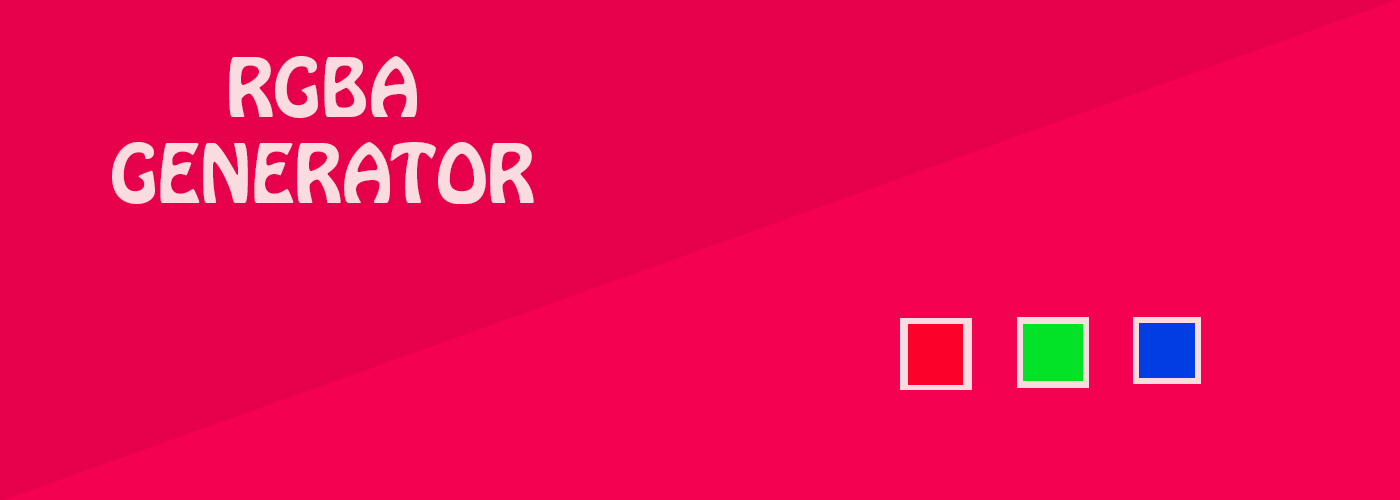
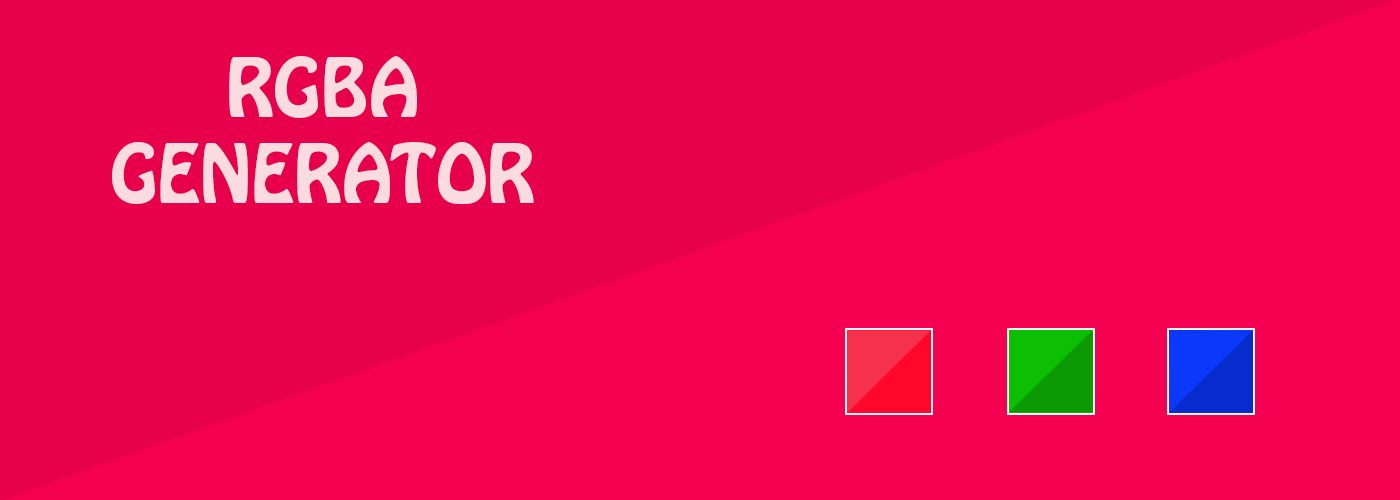
rgba

Changed region(s): [[0.5836, 0.63, 0.9214, 0.84]]

diff --git a/Subneteador/Subneteador.html b/Subneteador/Subneteador.html
@@ -7,8 +7,9 @@
 
 	<script type="text/javascript" src="js1/jquery-1.12.4.min.js"></script>
 	<script type="text/javascript" src="js1/logica.js"></script>
-	<link rel="stylesheet" type="text/css" href="css/subneteo.css">
+	
 	<link rel="stylesheet" href="../bootstrap-3.3.6-dist/css/bootstrap.min.css">
+	<link rel="stylesheet" type="text/css" href="css/subneteo.css">
 	<link href="https://fonts.googleapis.com/css?family=Raleway" rel="stylesheet">
 	<meta name="description" content="Aplicacion online para crear subredes">
 	<meta name="keywords" content="generador de codigo rgba, rgba generator, RGBA, CODIGO DE COLORES,Subneteo,subneteador online, subredes, sacar subredes online,Subneteo de redes ip, ip, suneteador de redes ip online,subredes ip,generar subredes ip,como subnetear,aprende a subnetear, creando subredes cisco, cisco, calculadora ip cisco,generar subredes online">
@@ -17,44 +18,62 @@
 			font-family: 'Raleway', sans-serif;
 		}
 	</style>
+	<link rel="stylesheet" type="text/css" href="css/cajas.css">
 </head>
 <body style="background-color: #eee;">
 
-	<header style="background: white;border-bottom: 3px solid #006699" class="navbar-fixed-top">
+	<header style="background: rgba(5,202,135,1);border-bottom: 3px solid rgba(5,202,135,1)" class="navbar-fixed-top">
 		<div class="container">
-		<h1 style="color: #006699;">Subneteo Online</h1>
+			<h1 style="color: white;">Subneteo Online</h1>
 		</div>
 
 	</header>
 
 	<div style="height: 60px;">:)</div>
 
-	<br>
+	<br><br>
 
 	<div class="container-fluid">
 		<div class="row">
-			<div  style="background-color:#d9edf7;border-radius:3px;justify-content: center;margin-top: 20px;padding: 10px;box-shadow: 1px 1px 2px rgba(150, 150, 150, 0.3);border-top: 3px solid rgba(17,147,182,1);" class="col-xs-12 col-md-8   col-md-offset-2 bg-info">
-				<h3 class="bg-info">¿Que es?</h3>
-				<p style="color: #006699;"><strong>Tu puedes generar subredes a partir de una red ya sea clase A, B o C</strong></p>
+			<div class="col-xs-12 col-md-8   col-md-offset-2 ">
+				
+				<div class="box">
+					<div class="box-header" style="background-color: rgba(5,202,135,1);color: white">¿Que es?</div>
+					<div class="box-body" style="border:1px solid rgba(5,202,135,1);">
+						<p style="color: #006699;"><strong>Tu puedes generar subredes a partir de una red ya sea clase A, B o C</strong></p>
+					</div>
+				</div>
 			</div>
 		</div>
 		<br>
 		<div class="row">
 			<div class="col-xs-12  col-md-8  col-md-offset-2 text-primary">
-				<div style="box-shadow: 1px 1px 2px rgba(150, 150, 150, 0.3);background: #d9edf7;border-radius: 3px;  float: left;padding: 10px 0px;border-top: 3px solid rgba(17,147,182,1);" class="col-xs-12 col-md-4 ">
-					<h4 style="color: initial;">Clase A</h4>
-					<p><strong>from:</strong>0.0.0.0 </p>
-					<p><strong>to:</strong> 127.255.255.255</p>
+				<div style="padding: 3px;padding-left: 0px;" class="col-xs-12 col-md-4 ">
+					<div class="box">
+						<div class="box-header" style="background-color: rgba(5,202,135,1);color: white">Clase A</div>
+						<div class="box-body" style="border:1px solid rgba(5,202,135,1);">
+							<p><strong>from:</strong>0.0.0.0 </p>
+							<p><strong>to:</strong> 127.255.255.255</p>
+						</div>
+					</div>
 				</div>
-				<div style="box-shadow: 1px 1px 2px rgba(150, 150, 150, 0.3);background: #d9edf7;border-radius: 3px; float: left;padding: 10px 0px;border-top: 3px solid rgba(17,147,182,1);" class="col-xs-12  col-md-4">
-					<h4 style="color: initial;">Clase B</h4>
-					<p><strong>from:</strong>128.255.255.255</p>
-					<p><strong>to:</strong>192.255.255.255</p>
+				<div style="padding: 3px;" class="col-xs-12  col-md-4">					
+					<div class="box">
+						<div class="box-header" style="background-color: rgba(5,202,135,1);color: white">Clase B</div>
+						<div class="box-body" style="border:1px solid rgba(5,202,135,1);">
+							<p><strong>from:</strong>128.255.255.255</p>
+							<p><strong>to:</strong>192.255.255.255</p></strong></p>
+						</div>
+					</div>
 				</div>
-				<div style="box-shadow: 1px 1px 2px rgba(150, 150, 150, 0.3);background: #d9edf7;border-radius: 3px; float: left;padding: 10px 0px;border-top: 3px solid rgba(17,147,182,1);" class="col-xs-12  col-md-4">
-					<h4 style="color: initial;">Clase C</h4>
-					<p><strong>from:</strong>193.255.255.255</p>
-					<p><strong>to:</strong>223.255.255.255</p>
+				<div style="padding: 3px;padding-right: 0px;" class="col-xs-12  col-md-4">					
+					<div class="box">
+						<div class="box-header" style="background-color: rgba(5,202,135,1);color: white">Clase C</div>
+						<div class="box-body" style="border:1px solid rgba(5,202,135,1);">
+							<p><strong>from:</strong>193.255.255.255</p>
+							<p><strong>to:</strong>223.255.255.255</p></strong></p>
+						</div>
+					</div>
 				</div>
 			</div>			
 		</div>

diff --git a/rgbaGenerator/rgba.html b/rgbaGenerator/rgba.html
@@ -10,14 +10,15 @@
 	<script src="js/jquery-1.12.4.min.js"></script>
 	<script src="js/logic.js" type="text/javascript"></script>
 
-	<link href="css/RGBA.css" rel="stylesheet" type="text/css"/>
+	
 	<link rel="stylesheet" href="BootStrap-3.3.6/bootstrap-3.3.6-dist/css/bootstrap.min.css">
+	<link href="css/RGBA.css" rel="stylesheet" type="text/css"/>
 
 </head>
-<body style="background: rgba(16,197,166,0.1);" id="body">
+<body style="background: rgba(245,28,81,0.1);" id="body">
 
 	<!-- header -->
-	<header id="cabecera" class="navbar-fixed-top" style="border-bottom: 3px solid #006699;">
+	<header id="cabecera" class="navbar-fixed-top" ">
 		<div class="container">
 			<h1 id="header">Generador rgba</h1>
 		</div>
@@ -33,7 +34,7 @@
 
 		<div class="row-block col-xs-12">
 			<div class="col-md-2"></div>
-			<div id="content1" style="border-top: 3px solid rgba(70,149,165,1);border-radius: 3px;box-shadow: 1px 1px 1px rgba(150,150,150,0.2);background: white;" class="content col-xs-12 col-md-8">
+			<div id="content1" style="border-top: 3px solid rgba(245,28,81,1);border-radius: 3px;box-shadow: 1px 1px 1px rgba(150,150,150,0.2);background: white;" class="content col-xs-12 col-md-8">
 				<p class="text-info">Quieres conocer el  <strong>codigo rgba</strong> de un color que te gustó y no sabes como, pues llegaste al lugar correcto.Podras crear tus propios colores y obtener su  <strong>codigo rgba</strong> para usarlo en tus paginas web u otros ambitos en los que sea posible. </p>
 			</div>
 			<div class="col-md-2"></div>
@@ -41,7 +42,7 @@
 
 		<div class="row-block col-xs-12">
 			<div class="col-md-2"></div>
-			<div  id="content2" style="border-top: 3px solid rgba(70,149,165,1);border-radius: 3px;box-shadow: 1px 1px 1px rgba(150,150,150,0.2);background: white;" class="content col-xs-12 col-md-8 ">
+			<div  id="content2" style="border-top: 3px solid rgba(245,28,81,1);border-radius: 3px;box-shadow: 1px 1px 1px rgba(150,150,150,0.2);background: white;" class="content col-xs-12 col-md-8 ">
 				<div>
 					<h3 class="text-center text-primary">Obten tu Codigo rgba aqui!</h3>
 					<div style="width: 100px" class="center-block">

diff --git a/index.html b/index.html
@@ -102,7 +102,7 @@
 					<div class="carousel-inner" role="listbox" style="padding: 0px;">
 						<div class="item active" style="width: 100vw;">
 							<a href="CALCULADORA/calculadora.html" >
-								<img class="img-responsive" src="img/rgba_slider2.png" alt="">
+								<img class="img-responsive" src="img/calculadora_slider2.1.png" alt="">
 							</a>
 
 							<div class="carousel-caption">
@@ -116,7 +116,7 @@
 						</div>
 						<div class="item">
 							<a href="Subneteador/Subneteador.html">
-								<img class="img-responsive" src="img/slider2.png" alt="">
+								<img class="img-responsive" src="img/ip_slider2.png" alt="">
 							</a>								
 							<div class="carousel-caption">
 								<!-- <h3>Subneteador ip</h3> -->
@@ -127,7 +127,7 @@
 						</div>
 						<div class="item">
 							<a href="rgbaGenerator/rgba.html">
-								<img class="img-responsive" src="img/slider3.png" alt="">
+								<img class="img-responsive" src="img/rgba_slider2.1.png" alt="">
 							</a>								
 							<div class="carousel-caption">
 								<!-- <h3>RGBA</h3> -->

diff --git a/rgbaGenerator/css/RGBA.css b/rgbaGenerator/css/RGBA.css
@@ -3,9 +3,12 @@
 			margin: 0px;
 			padding: 0px;
 	}
+	a{
+		color: rgba(245,28,81,1);
+	}
 		body{
 			/*background: rgba(128,128,128,0.1);*/
-			background-color: rgba(70,70,70,1);
+			background-color: rgba(245,28,81,0.1);
 			background: red;
 		}
 
@@ -75,7 +78,7 @@
 		/*cabecera*/
 		
 		#cabecera{
-			background: rgba(27,99,127,1);
+			background: rgba(245,28,81,1);
 			color:white;
 
 		}
@@ -174,7 +177,7 @@
 
 .menu{
   position: absolute;
-  top: 72px;
+  top: 70px;
   left: 0;
   width: 100%;
   height: 100vh;
@@ -183,12 +186,12 @@
   -webkit-transform: translateX(-100%);
   -moz-transform: translateX(-100%);
   font-size: 20px;
-  border-right: 1px solid #006699;
+  border-right: 1px solid rgba(245,28,81,1);
 }
 
 .menu a{
   display: block;
-  color: gray;
+  color: rgba(245,28,81,1);
   height: 70px;
   text-decoration: none;
   padding: 15px;
@@ -196,7 +199,8 @@
 }
 
 .menu a:hover{
-  background: rgba(255,255,255,0.3);
+  color: rgba(245,28,81,1);
+  text-decoration: underline;
 }
 
 #menu-bar:checked ~ .menu{

diff --git a/Subneteador/css/subneteo.css b/Subneteador/css/subneteo.css
@@ -7,7 +7,7 @@
 
 body{
 	/*background: rgba(37,128,91,0.2);*/
-	background-color: rgba(94,167,186,0.1);
+	background-color: rgba(0,180,115,0.1);
 }
 body:hover #index input{
 	transition-duration: 0.8s;
@@ -132,12 +132,12 @@ input{
   -webkit-transform: translateX(-100%);
   -moz-transform: translateX(-100%);
   font-size: 20px;
-  border-right: 1px solid #006699;
+  border-right: 1px solid rgba(0,180,115,1);
 }
 
 .menu a{
   display: block;
-  color: gray;
+  color: rgba(5,202,135,1);
   height: 70px;
   text-decoration: none;
   padding: 15px;
@@ -146,6 +146,8 @@ input{
 
 .menu a:hover{
   background: rgba(255,255,255,0.3);
+  color: rgba(0,180,115,1);
+  text-decoration: underline;
 }
 
 #menu-bar:checked ~ .menu{

diff --git a/CALCULADORA/calculadora.html b/CALCULADORA/calculadora.html
@@ -29,9 +29,9 @@
 <body>
 	
 	<!-- con bootstrap -->
-	<header class="navbar-fixed-top" style="box-shadow: 1px 1px 4px rgba(150,150,150,0.5);border-bottom: 3px solid #006699;background: white;">
+	<header class="navbar-fixed-top" style="box-shadow: 1px 1px 4px rgba(150,150,150,0.5);border-bottom: 3px solid rgba(4,151,188,1);background: rgba(4,151,188,1);">
 		<div class="container">
-			<h1 style="color: #006699">Calculadora</h1>
+			<h1 style="color: white">Calculadora</h1>
 		</div>
 	</header>
 	<section style="color: white;" class="jumbotron">

diff --git a/Subneteador/css/cajas.css b/Subneteador/css/cajas.css
@@ -1,0 +1,20 @@
+.box{
+	background-color: white;
+	color: #333;
+	width: 100%;
+}
+.box div{
+	width: 100%;
+	padding: 10px;
+}
+.box-header{
+	font-weight: bolder;
+}
+.box-body{
+
+}
+
+.box .box-header{
+	border-top-left-radius: 3px;
+	border-top-right-radius: 3px;
+}
